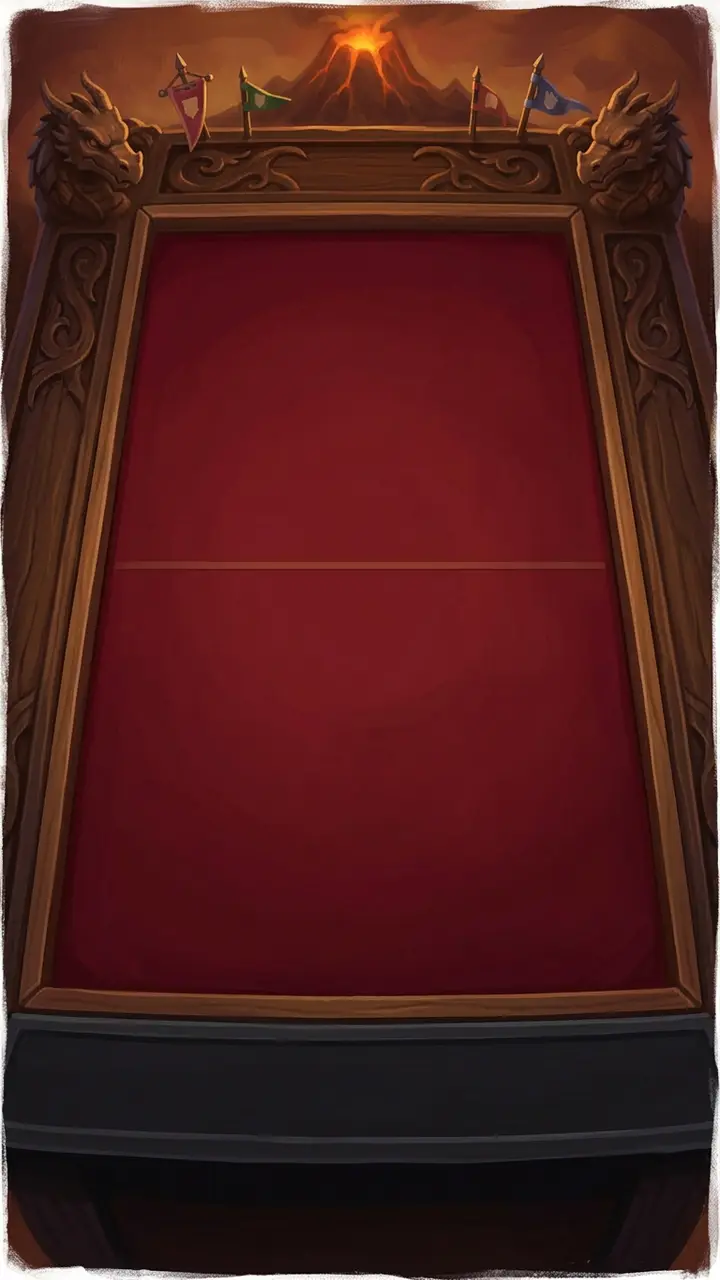
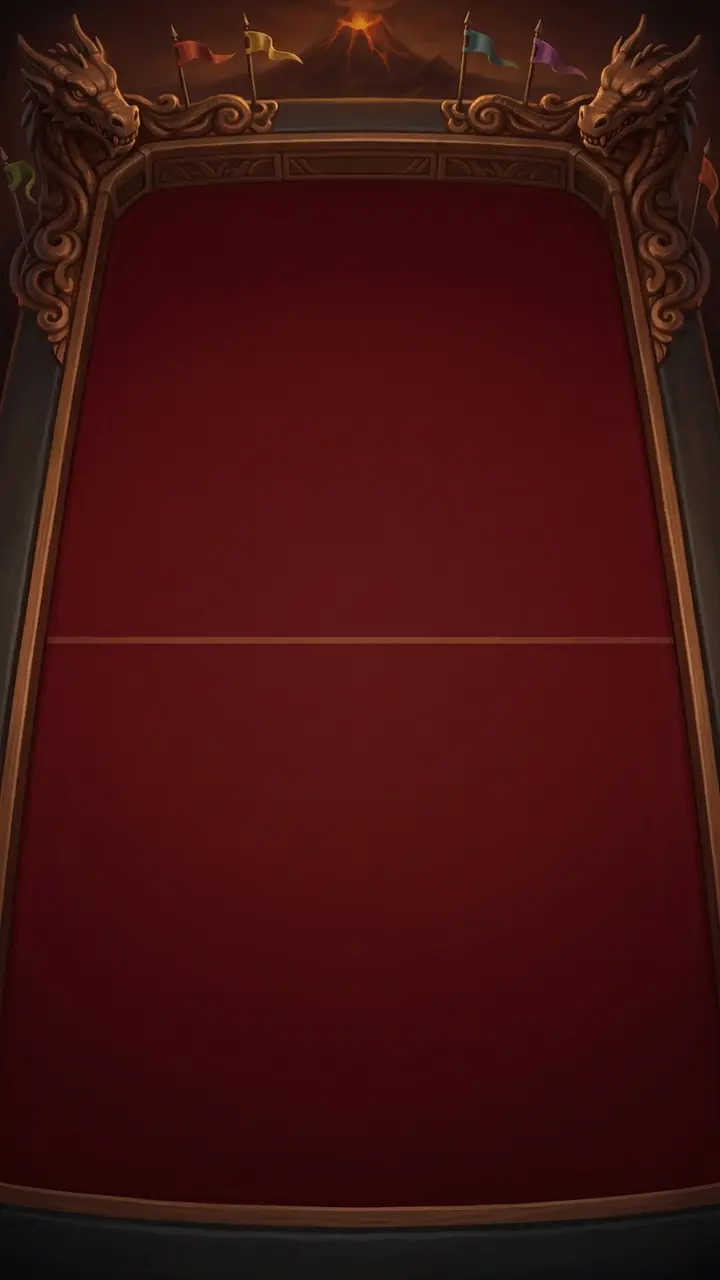
Drachenspiel: zwölf gemalte Tische (6 Häuser, Hoch- und Querformat), THIRD_PARTY und Chronik (#427)

diff --git a/docs/grafik/BESTAND.md b/docs/grafik/BESTAND.md
@@ -8,50 +8,52 @@ Spalten: **WebP** im öffentlichen Repo · **Original im Archiv** (privates Repo
 
 | Bildordner | WebP | Original im Archiv | Original verloren (vor 12.11.2026) | ohne Original | Manifest | Modell laut THIRD_PARTY.md |
 |---|---:|---:|---:|---:|---|---|
+| `apps/web/src/assets/avatare` | 76 | 76 |  |  | `avatare` | gemini-3.1-flash-lite-image, November 2026 |
+| `apps/web/src/assets/ehrung` | 14 | 14 |  |  | `ehrung` | gemini-3-pro-image, November 2026 |
+| `apps/web/src/assets/kulissen` | 24 | 24 |  |  | `kulissen-spiele` | gemini-3-pro-image, November 2026 |
 | `apps/web/src/assets/raeume` | 3 | 0 | 3 |  | `raeume` | Bildmodell ohne Angabe, November 2026 |
-| `apps/web/src/menu` | 3 | 0 | 3 |  | `menue-licht` | gemini-3.1-flash-image, November 2026 |
-| `apps/web/src/wappen` | 56 | 2 | 54 |  | `wappen` | gemini-3.1-flash-image, November 2026 |
+| `apps/web/src/assets/tische` | 12 | 7 |  | 5 | `tische` | gemini-3.1-flash-image, November 2026; gemini-3-pro-image, November 2026 |
+| `apps/web/src/menu` | 13 | 12 | 1 |  | `menue-licht-hoch`, `menue-licht` | gemini-3-pro-image, November 2026; gemini-3.1-flash-image, November 2026 |
+| `apps/web/src/menu/stationen` | 7 | 7 |  |  | `menue-stationen` | gemini-3-pro-image, November 2026 |
+| `apps/web/src/wappen` | 56 | 0 | 54 | 2 | `wappen` | gemini-3.1-flash-image, November 2026 |
+| `content/quartett/bilder/bibel` | 32 | 32 |  |  | `quartett-bibel` | – (kein Abschnitt in THIRD_PARTY.md) |
+| `content/quartett/bilder/dinosaurier` | 32 | 32 |  |  | `quartett-dinosaurier` | – (kein Abschnitt in THIRD_PARTY.md) |
+| `content/quartett/bilder/tiere` | 32 | 32 |  |  | `quartett-tiere` | – (kein Abschnitt in THIRD_PARTY.md) |
+| `content/quartett/bilder/weltraum` | 32 | 32 |  |  | `quartett-weltraum` | – (kein Abschnitt in THIRD_PARTY.md) |
+| `packages/games/battleship/src/ui/figuren` | 18 | 18 |  |  | `figuren-battleship` | – (kein Abschnitt in THIRD_PARTY.md) |
+| `packages/games/checkers/src/ui/figuren` | 12 | 12 |  |  | `figuren-checkers` | – (kein Abschnitt in THIRD_PARTY.md) |
+| `packages/games/chess/src/ui/figuren` | 36 | 36 |  |  | `figuren-chess` | – (kein Abschnitt in THIRD_PARTY.md) |
+| `packages/games/chinese-checkers/src/ui/figuren` | 3 | 3 |  |  | `figuren-chinese-checkers` | – (kein Abschnitt in THIRD_PARTY.md) |
 | `packages/games/color-sorter/src/ui/items` | 70 | 0 | 70 |  | `jahrmarkt-2`, `jahrmarkt-3`, `jahrmarkt` | gemini-2.5-flash-image, November 2026 |
 | `packages/games/color-sorter/src/ui/kulissen` | 5 | 0 | 5 |  | `kulissen` | gemini-2.5-flash-image, November 2026 |
 | `packages/games/color-sorter/src/ui/portraits` | 286 | 0 | 286 |  | `narren` | Canva AI, Oktober 2026; gemini-3.1-flash-image, November 2026 |
 | `packages/games/drachenspiel/src/ui/champions` | 5 | 0 | 5 |  | `drachenspiel-champions` | Bildmodell ohne Angabe, November 2026 |
-| `packages/games/drachenspiel/src/ui/kulissen` | 6 | 0 |  | 6 | – | Bildmodell ohne Angabe, November 2026 |
+| `packages/games/drachenspiel/src/ui/karten` | 234 | 234 |  |  | `drachenspiel-karten` | gemini-3.1-flash-lite-image, November 2026 |
+| `packages/games/drachenspiel/src/ui/kulissen` | 6 | 6 |  |  | – | Bildmodell ohne Angabe, November 2026 |
+| `packages/games/drachenspiel/src/ui/tische` | 12 | 12 |  |  | `drachenspiel-tische` | gemini-3.1-flash-image, November 2026 |
+| `packages/games/four-in-a-row/src/ui/figuren` | 6 | 6 |  |  | `figuren-four-in-a-row` | – (kein Abschnitt in THIRD_PARTY.md) |
+| `packages/games/four-player-chess/src/ui/figuren` | 18 | 18 |  |  | `figuren-four-player-chess` | – (kein Abschnitt in THIRD_PARTY.md) |
+| `packages/games/go/src/ui/figuren` | 6 | 6 |  |  | `figuren-go` | – (kein Abschnitt in THIRD_PARTY.md) |
+| `packages/games/grafschaft/src/ui/auftraege` | 20 | 20 |  |  | `grafschaft-auftraege` | – (kein Abschnitt in THIRD_PARTY.md) |
+| `packages/games/grafschaft/src/ui/land` | 6 | 6 |  |  | `grafschaft-land` | gemini-3-pro-image, November 2026 |
+| `packages/games/ludo/src/ui/figuren` | 3 | 3 |  |  | `figuren-ludo` | – (kein Abschnitt in THIRD_PARTY.md) |
+| `packages/games/market-stalls/src/ui/staende` | 4 | 4 |  |  | `marktstaende-staende` | – (kein Abschnitt in THIRD_PARTY.md) |
+| `packages/games/market-stalls/src/ui/waren` | 4 | 4 |  |  | `marktstaende-waren` | gemini-3-pro-image, November 2026 |
 | `packages/games/marketplace/src/ui/fields` | 15 | 0 | 15 |  | `marktplatz-felder` | Bildmodell ohne Angabe, November 2026 |
 | `packages/games/marketplace/src/ui/figures` | 5 | 0 | 5 |  | `marktplatz-figuren` | Bildmodell ohne Angabe, November 2026 |
+| `packages/games/mill/src/ui/figuren` | 6 | 6 |  |  | `figuren-mill` | – (kein Abschnitt in THIRD_PARTY.md) |
+| `packages/games/reversi/src/ui/figuren` | 6 | 6 |  |  | `figuren-reversi` | – (kein Abschnitt in THIRD_PARTY.md) |
+| `packages/games/tic-tac-toe/src/ui/figuren` | 6 | 6 |  |  | `figuren-tic-tac-toe` | – (kein Abschnitt in THIRD_PARTY.md) |
+| `packages/games/turnip-patch/src/ui/karten` | 4 | 4 |  |  | `ruebenacker-karten` | Bildmodell ohne Angabe, November 2026 |
+| `packages/games/turnip-patch/src/ui/teile` | 10 | 10 |  |  | `ruebenacker-teile` | – (kein Abschnitt in THIRD_PARTY.md) |
 | `packages/games/wolves-sheep/src/ui/cards` | 11 | 0 | 11 |  | `rollenkarten` | gemini-3.1-flash-image, November 2026 |
+| `packages/ui/src/bots/portraits` | 47 | 47 |  |  | `bots` | gemini-3.1-flash-lite-image, November 2026 |
+| `packages/ui/src/cards/backs` | 6 | 6 |  |  | `kartenruecken` | gemini-3-pro-image, November 2026 |
 | `packages/ui/src/cards/portraits` | 24 | 0 | 24 |  | `bildkarten-deutsch`, `bildkarten` | gemini-3.1-flash-image, November 2026 |
-| **Summe** | **489** | **2** | **481** | **6** | | |
+| **Summe** | **1227** | **741** | **479** | **7** | | |
 
 ## Geplant (Manifest vorhanden, noch keine Bilder)
 
 | Manifest | Zielordner | Motive |
 |---|---|---:|
-| `avatare` | `apps/web/src/assets/avatare` | 76 |
-| `bots` | `packages/ui/src/bots/portraits` | 47 |
-| `drachenspiel-karten` | `packages/games/drachenspiel/src/ui/karten` | 234 |
-| `ehrung` | `apps/web/src/assets/ehrung` | 14 |
-| `figuren-battleship` | `packages/games/battleship/src/ui/figuren` | 18 |
-| `figuren-checkers` | `packages/games/checkers/src/ui/figuren` | 12 |
-| `figuren-chess` | `packages/games/chess/src/ui/figuren` | 36 |
-| `figuren-chinese-checkers` | `packages/games/chinese-checkers/src/ui/figuren` | 3 |
-| `figuren-four-in-a-row` | `packages/games/four-in-a-row/src/ui/figuren` | 6 |
-| `figuren-four-player-chess` | `packages/games/four-player-chess/src/ui/figuren` | 18 |
-| `figuren-go` | `packages/games/go/src/ui/figuren` | 6 |
-| `figuren-ludo` | `packages/games/ludo/src/ui/figuren` | 3 |
-| `figuren-mill` | `packages/games/mill/src/ui/figuren` | 6 |
-| `figuren-reversi` | `packages/games/reversi/src/ui/figuren` | 6 |
-| `figuren-tic-tac-toe` | `packages/games/tic-tac-toe/src/ui/figuren` | 6 |
-| `grafschaft-auftraege` | `packages/games/grafschaft/src/ui/auftraege` | 20 |
-| `grafschaft-land` | `packages/games/grafschaft/src/ui/land` | 6 |
-| `kartenruecken` | `packages/ui/src/cards/backs` | 6 |
-| `kulissen-spiele` | `apps/web/src/assets/kulissen` | 12 |
-| `marktstaende-staende` | `packages/games/market-stalls/src/ui/staende` | 4 |
-| `marktstaende-waren` | `packages/games/market-stalls/src/ui/waren` | 4 |
-| `menue-stationen` | `apps/web/src/menu/stationen` | 7 |
-| `quartett-bibel` | `content/quartett/bilder/bibel` | 32 |
-| `quartett-dinosaurier` | `content/quartett/bilder/dinosaurier` | 32 |
-| `quartett-tiere` | `content/quartett/bilder/tiere` | 32 |
-| `quartett-weltraum` | `content/quartett/bilder/weltraum` | 32 |
-| `ruebenacker-karten` | `packages/games/turnip-patch/src/ui/karten` | 4 |
-| `ruebenacker-teile` | `packages/games/turnip-patch/src/ui/teile` | 10 |
-| `tische` | `apps/web/src/assets/tische` | 12 |
+

diff --git a/docs/CHRONIK.md b/docs/CHRONIK.md
@@ -44,7 +44,7 @@ Was wann umgesetzt wurde, mit Dateipfaden und Entscheidungen. Bis zum 12.11.2026
 
 **Großansicht in den übrigen Spielen (15.11.2026, #422, Vorhaben #416):** `CardInspectProvider` zentral um die Spielseite (`apps/web/src/screens/Play.tsx`). Narrenhof: `Hover.tsx` ist ein dünner Adapter auf `CardInspect` (Karten und Kacheln, Kacheln mit Porträt bzw. rundem Medaillon), Stile `.cs-tip*` entfallen. Grafschaft (Hofaufträge, Plättchen der Auslage), Marktstände (Warenkarten), Rübenacker (gezogene Karte, Texte aus der Kurzanleitung), Marktplatz (Felder mit Bild beim Überfahren; Antippen öffnet weiter das Feldblatt). Wölfe im Schafspelz: Rollenkarte am Desktop größer (`.ws-card-image` bis 15rem), Großansicht nur für öffentlich bekannte Rollen (ausgeschieden, Tafel), nie für die eigene oder in der Nacht erfahrene Rolle. `PlayingCard` (Skat, Schafkopf, Doppelkopf, Mau-Mau, Poker …): Großansicht nur auf Wunsch (`hover: false`) mit Bildkarten-Porträt und Kartenhinweis; Eins! hat eigene Karten ohne Porträts und bleibt ohne. Spielerchips: `setAvatarImageResolver`/`avatarImageOf` (`packages/ui/src/avatarRenderer.ts`), Avatar groß beim Überfahren; Bots ohne Avatar bleiben ohne. Figurensätze: Vorschau in der Satzwahl am Desktop 96 px und Großansicht (`apps/web/src/components/PieceSetPicker.tsx`). Baukasten: Beim Ziehen (gedrückte Maustaste) keine schwebende Ansicht; öffnet sich das Fenster nach langem Drücken, bricht `usePointerDrag` den Druck ab (`INSPECT_OPEN_EVENT`), sonst hätte Mau-Mau die Karte danach ausgespielt; Bilder aus dem Zwischenspeicher werden jetzt ebenfalls auf ihre Dateigröße begrenzt.
 
-**Drachenspiel Tischansicht (14.11.2026, #425, alles `status: Idee`):** Cornelius will statt Kasten vor Tapete einen gemalten Spieltisch in Schrägsicht (Vorbild Hearthstone und Dota Underlords), der die ganze Seite füllt. Entscheidung für Variante A (gemalter Tisch, Karten flach und aufrecht, Gegnerreihe etwa 80 % groß); gekippte CSS-3D-Ebene und echtes 3D zurückgestellt. Unter-Issues T0 Probetisch (#426), T1 zwölf Bilder (#427, Manifest `scripts/grafik/manifeste/drachenspiel-tische.json`), T2 Vollbild-Arena (#428), T3 Handy-Hochformat und Kompaktregeln (#429), T4 Rahmen, Deckwahl, Hot-Seat (#430). **T0 erledigt (15.11.2026, #426, PR #431):** Probe `arena-hoch`/`arena-quer` mit steilerem Winkel (70–75°), leichtem Fischauge und waagerechter Mittellinie; Bilder `packages/games/drachenspiel/src/ui/tische/tisch-arena-{hoch,quer}.webp` (noch nicht eingebaut, Platzhalter für T2), Originale im privaten Repo. Offen für T1: Hochformat mit schmalerem Rahmen und ohne weißen Pinselrand.
+**Drachenspiel Tischansicht (14.11.2026, #425, alles `status: Idee`):** Cornelius will statt Kasten vor Tapete einen gemalten Spieltisch in Schrägsicht (Vorbild Hearthstone und Dota Underlords), der die ganze Seite füllt. Entscheidung für Variante A (gemalter Tisch, Karten flach und aufrecht, Gegnerreihe etwa 80 % groß); gekippte CSS-3D-Ebene und echtes 3D zurückgestellt. Unter-Issues T0 Probetisch (#426), T1 zwölf Bilder (#427, Manifest `scripts/grafik/manifeste/drachenspiel-tische.json`), T2 Vollbild-Arena (#428), T3 Handy-Hochformat und Kompaktregeln (#429), T4 Rahmen, Deckwahl, Hot-Seat (#430). **T0 erledigt (15.11.2026, #426, PR #431):** Probe `arena-hoch`/`arena-quer` mit steilerem Winkel (70–75°), leichtem Fischauge und waagerechter Mittellinie; Bilder `packages/games/drachenspiel/src/ui/tische/tisch-arena-{hoch,quer}.webp` (noch nicht eingebaut, Platzhalter für T2), Originale im privaten Repo. **T1 erledigt (15.11.2026, #427):** zwölf gemalte Tische (Arena, Wald, Meer, Bauernhof, Wildnis, Krabbeltiere je Hoch- und Querformat) als `tisch-<haus>-{hoch,quer}.webp` in `packages/games/drachenspiel/src/ui/tische/` (je unter 100 KB, noch nicht eingebaut; Einbau in S5 #428 und S6 #429). Hochformate ohne weißen Pinselrand mit schlankerem Rahmen (Zusatz im Prompt aller `-hoch`-Motive); Originale und alle Varianten im privaten Repo, Abschnitt in `THIRD_PARTY.md`.
 
 **Karten bewegen sich glaubhaft (14.11.2026, #421, Vorhaben #416):** `DragState.velocity` (geglättete Zuggeschwindigkeit, nach 80 ms Stillstand 0) in `packages/ui/src/dnd/usePointerDrag.ts` und `dragTilt` (`dnd/dragTilt.ts`, höchstens 10°, bei „Bewegung reduzieren“ 0); Drachenspiel, Mau-Mau und Eins! neigen die gezogene Karte in Zugrichtung. Anheben in der Hand nur mit Maus (`.bub-fan-slot > .bub-card-clickable:hover`, `translate`/`scale` in `packages/ui/src/ui.css`). Glanz von `GameCard` (`foil`) folgt der Maus (`--bub-foil-x/-y`), Sagentiere im Drachenspiel tragen Goldglanz. Den Aufprall beim Ablegen gab es schon (`mau-card-landing`, `uno-card-landing`, `ds-minion-enter`). Dabei behoben: (1) `usePointerDrag` unterdrückt das native Bild-Ziehen (`dragstart`), sonst ließen sich Drachenspiel-Karten mit gemaltem Bild mit der Maus nicht ziehen; (2) in Mau-Mau und Eins! überschrieb der Stil aus `bindDrag` die Verschiebung, die gezogene Karte folgte dem Zeiger nicht sichtbar. Außerdem Fehler aus #420 behoben: Kartenmaße mit Rückfallwerten, damit Deckbau, Solo und Deckwahl außerhalb der Arena ihre Größe behalten.
 

diff --git a/THIRD_PARTY.md b/THIRD_PARTY.md
@@ -498,7 +498,7 @@ Sie stehen wie die übrigen Inhalte unter CC BY-SA 4.0 (Brett & Blatt). Hinweis:
 
 Die fünf Hintergrundkulissen für die Themenhäuser im Drachenspiel (`packages/games/drachenspiel/src/ui/kulissen/*.webp`: Wald, Meer, Bauernhof, Wildnis, Krabbeltiere ; die Originale in voller Auflösung liegen im privaten Repo `ichthys2k/brett-und-blatt-grafik`): **KI-erzeugt** mit einem Bildmodell nach eigenen Bildbeschreibungen im Storybook-Fantasy-Stil, November 2026. Auswahl durch Cornelius Lipponer. Die Bilder zeigen leere Landschaften und Naturkulissen ohne Personen, Figuren, Text oder Interface-Elemente.
 
-Die zwei Probetische des Drachenspiels (`packages/games/drachenspiel/src/ui/tische/tisch-arena-hoch.webp` und `tisch-arena-quer.webp`; die Originale in voller Auflösung liegen im privaten Repo `ichthys2k/brett-und-blatt-grafik`): **KI-erzeugt** mit „gemini-3.1-flash-image“ (Google) nach eigenen Bildbeschreibungen im Storybook-Fantasy-Stil, November 2026 (#426). Auswahl und Zuschnitt durch Cornelius Lipponer; Manifest und Prompts in `scripts/grafik/manifeste/drachenspiel-tische.json`. Die Bilder zeigen einen leeren Spieltisch mit roter Matte, Drachenköpfen, Wimpeln und einem Vulkan, ohne Personen, Figuren, Text oder Interface-Elemente.
+Die zwölf Spieltische des Drachenspiels (`packages/games/drachenspiel/src/ui/tische/tisch-<haus>-hoch.webp` und `tisch-<haus>-quer.webp` für Arena, Wald, Meer, Bauernhof, Wildnis und Krabbeltiere; die Originale in voller Auflösung und alle Varianten liegen im privaten Repo `ichthys2k/brett-und-blatt-grafik`): **KI-erzeugt** mit „gemini-3.1-flash-image“ (Google) nach eigenen Bildbeschreibungen im Storybook-Fantasy-Stil, November 2026 (#426, #427). Auswahl und Zuschnitt durch Cornelius Lipponer; Manifest und Prompts in `scripts/grafik/manifeste/drachenspiel-tische.json`. Die Bilder zeigen leere Spieltische mit farbiger Matte und der Ausstattung des jeweiligen Wappenhauses, ohne Personen, Tiere, Figuren, Text oder Interface-Elemente.
 
 Sie stehen wie die übrigen Inhalte unter CC BY-SA 4.0 (Brett & Blatt). Hinweis: Die Bilder sind KI-erzeugt; ob an ihnen ein Urheberrecht besteht, ist rechtlich nicht abschließend geklärt.
 
